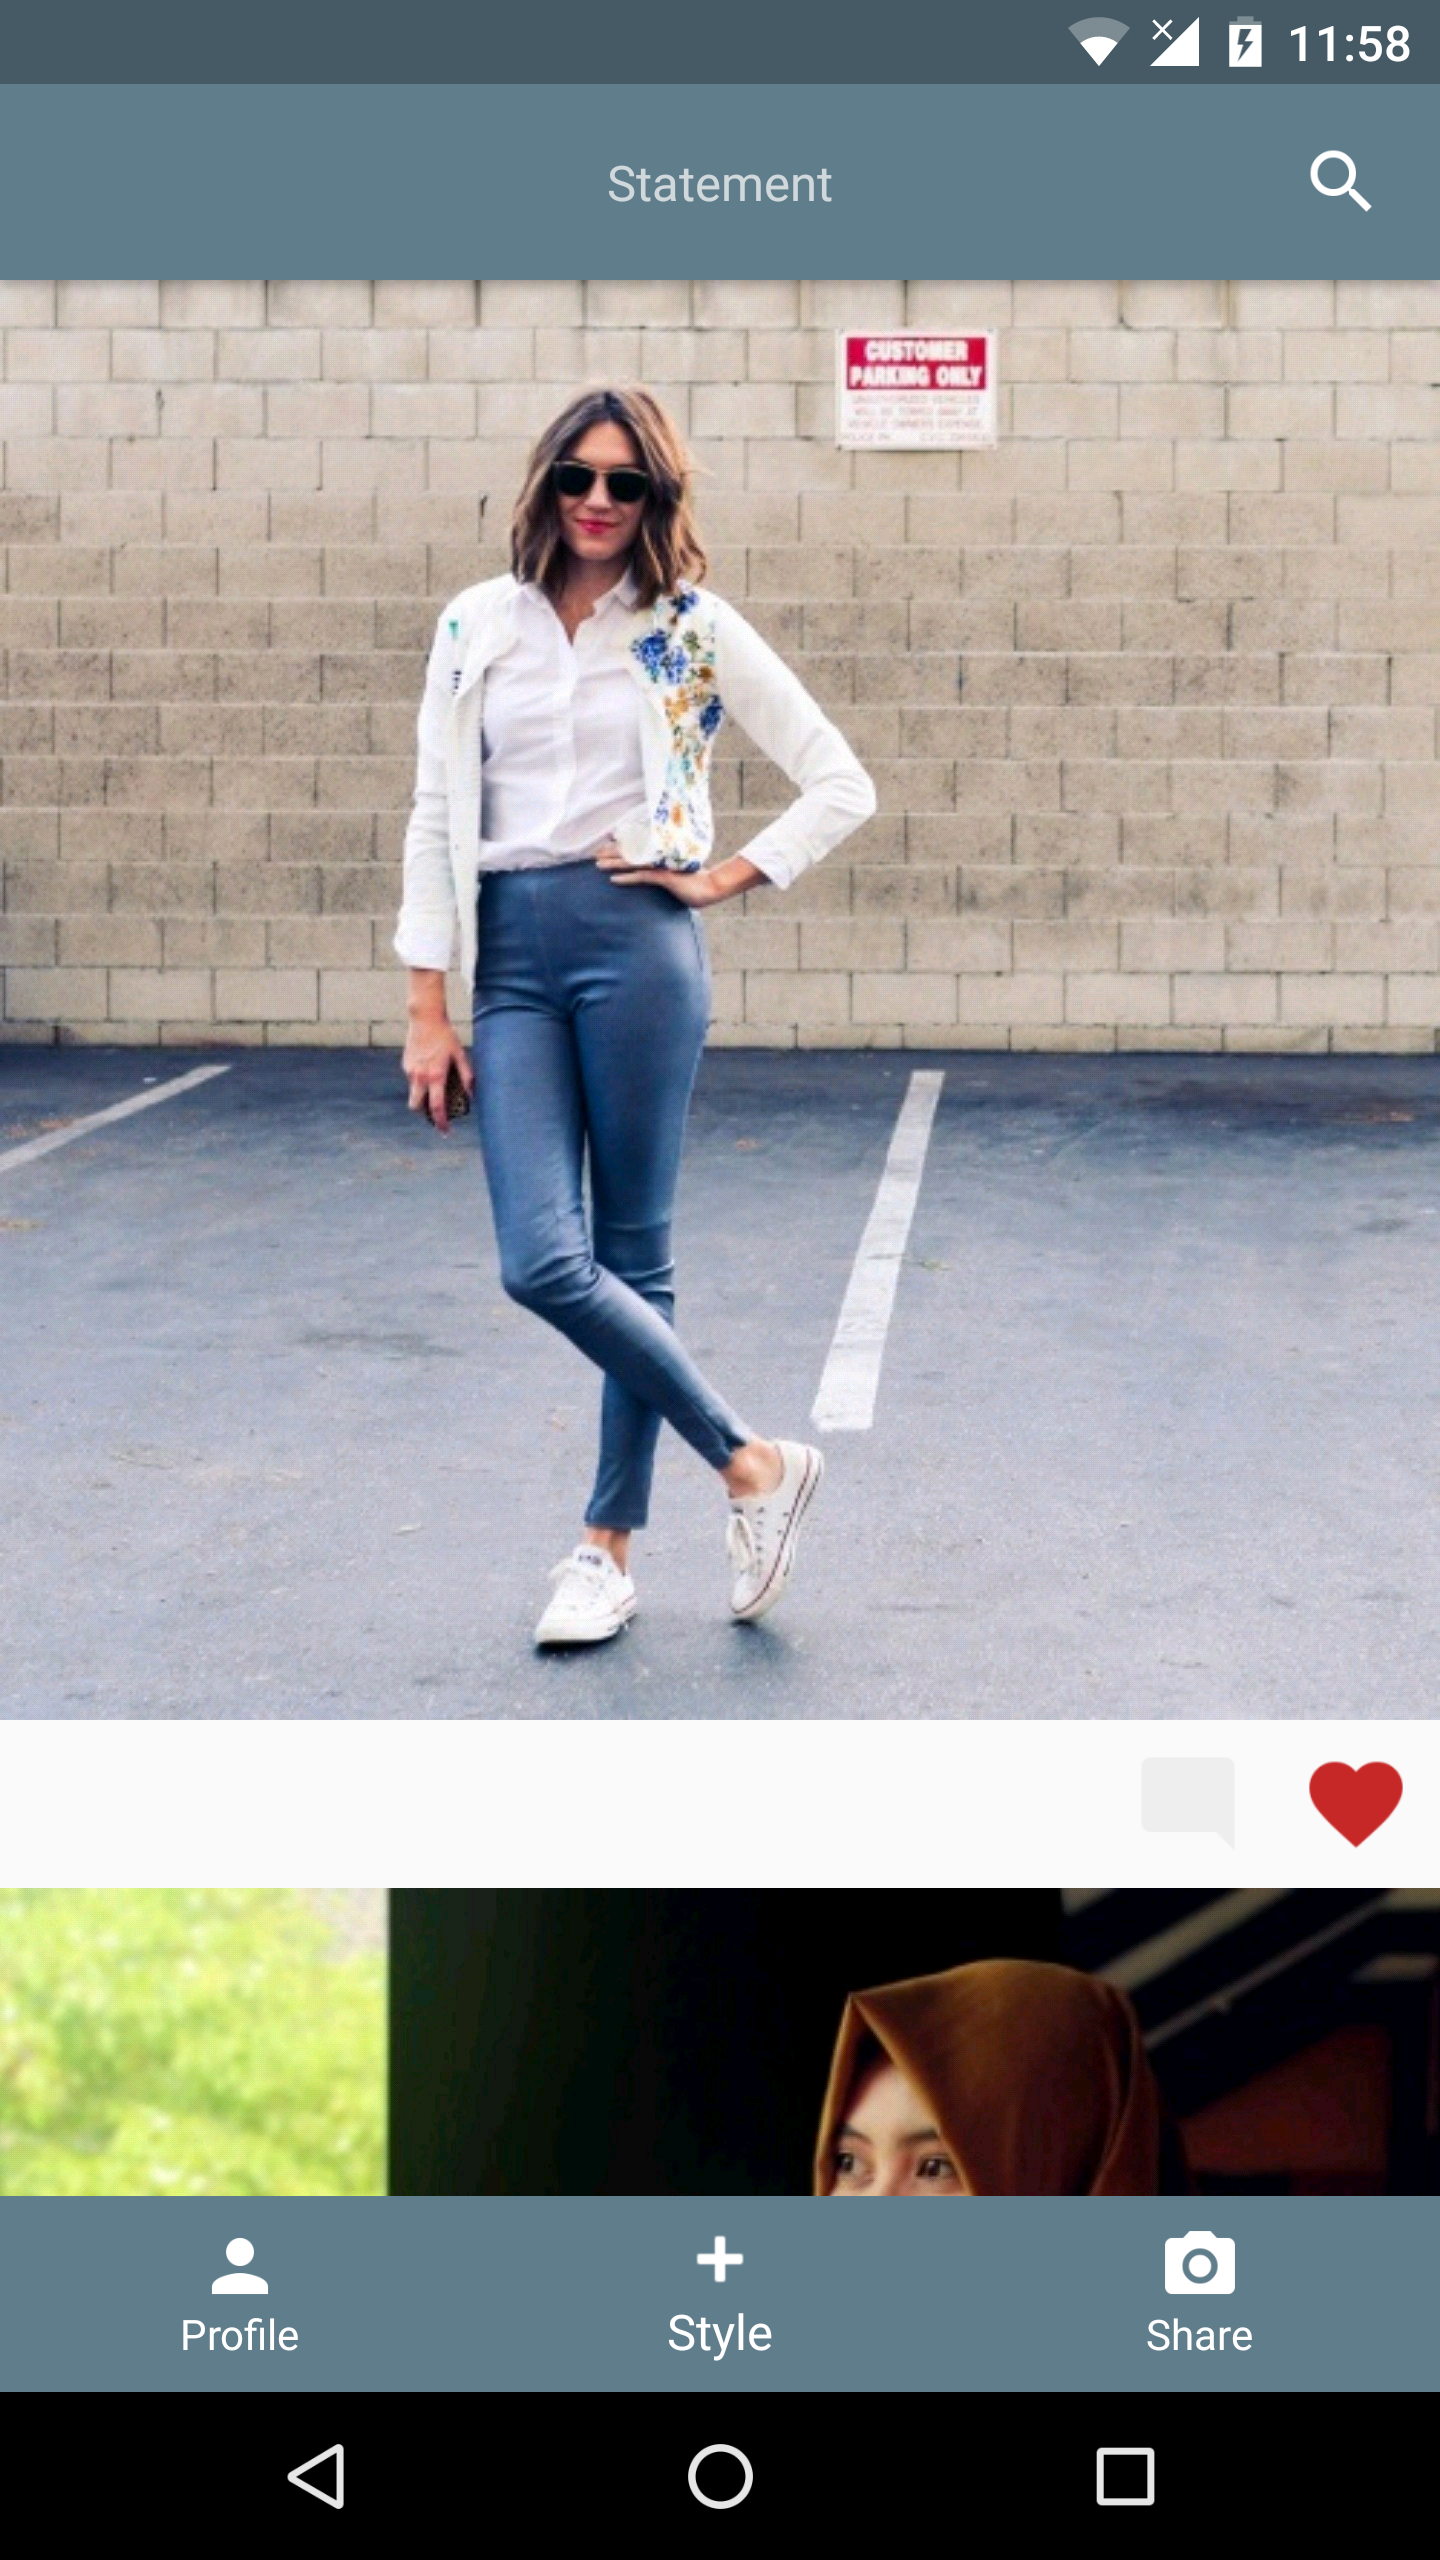
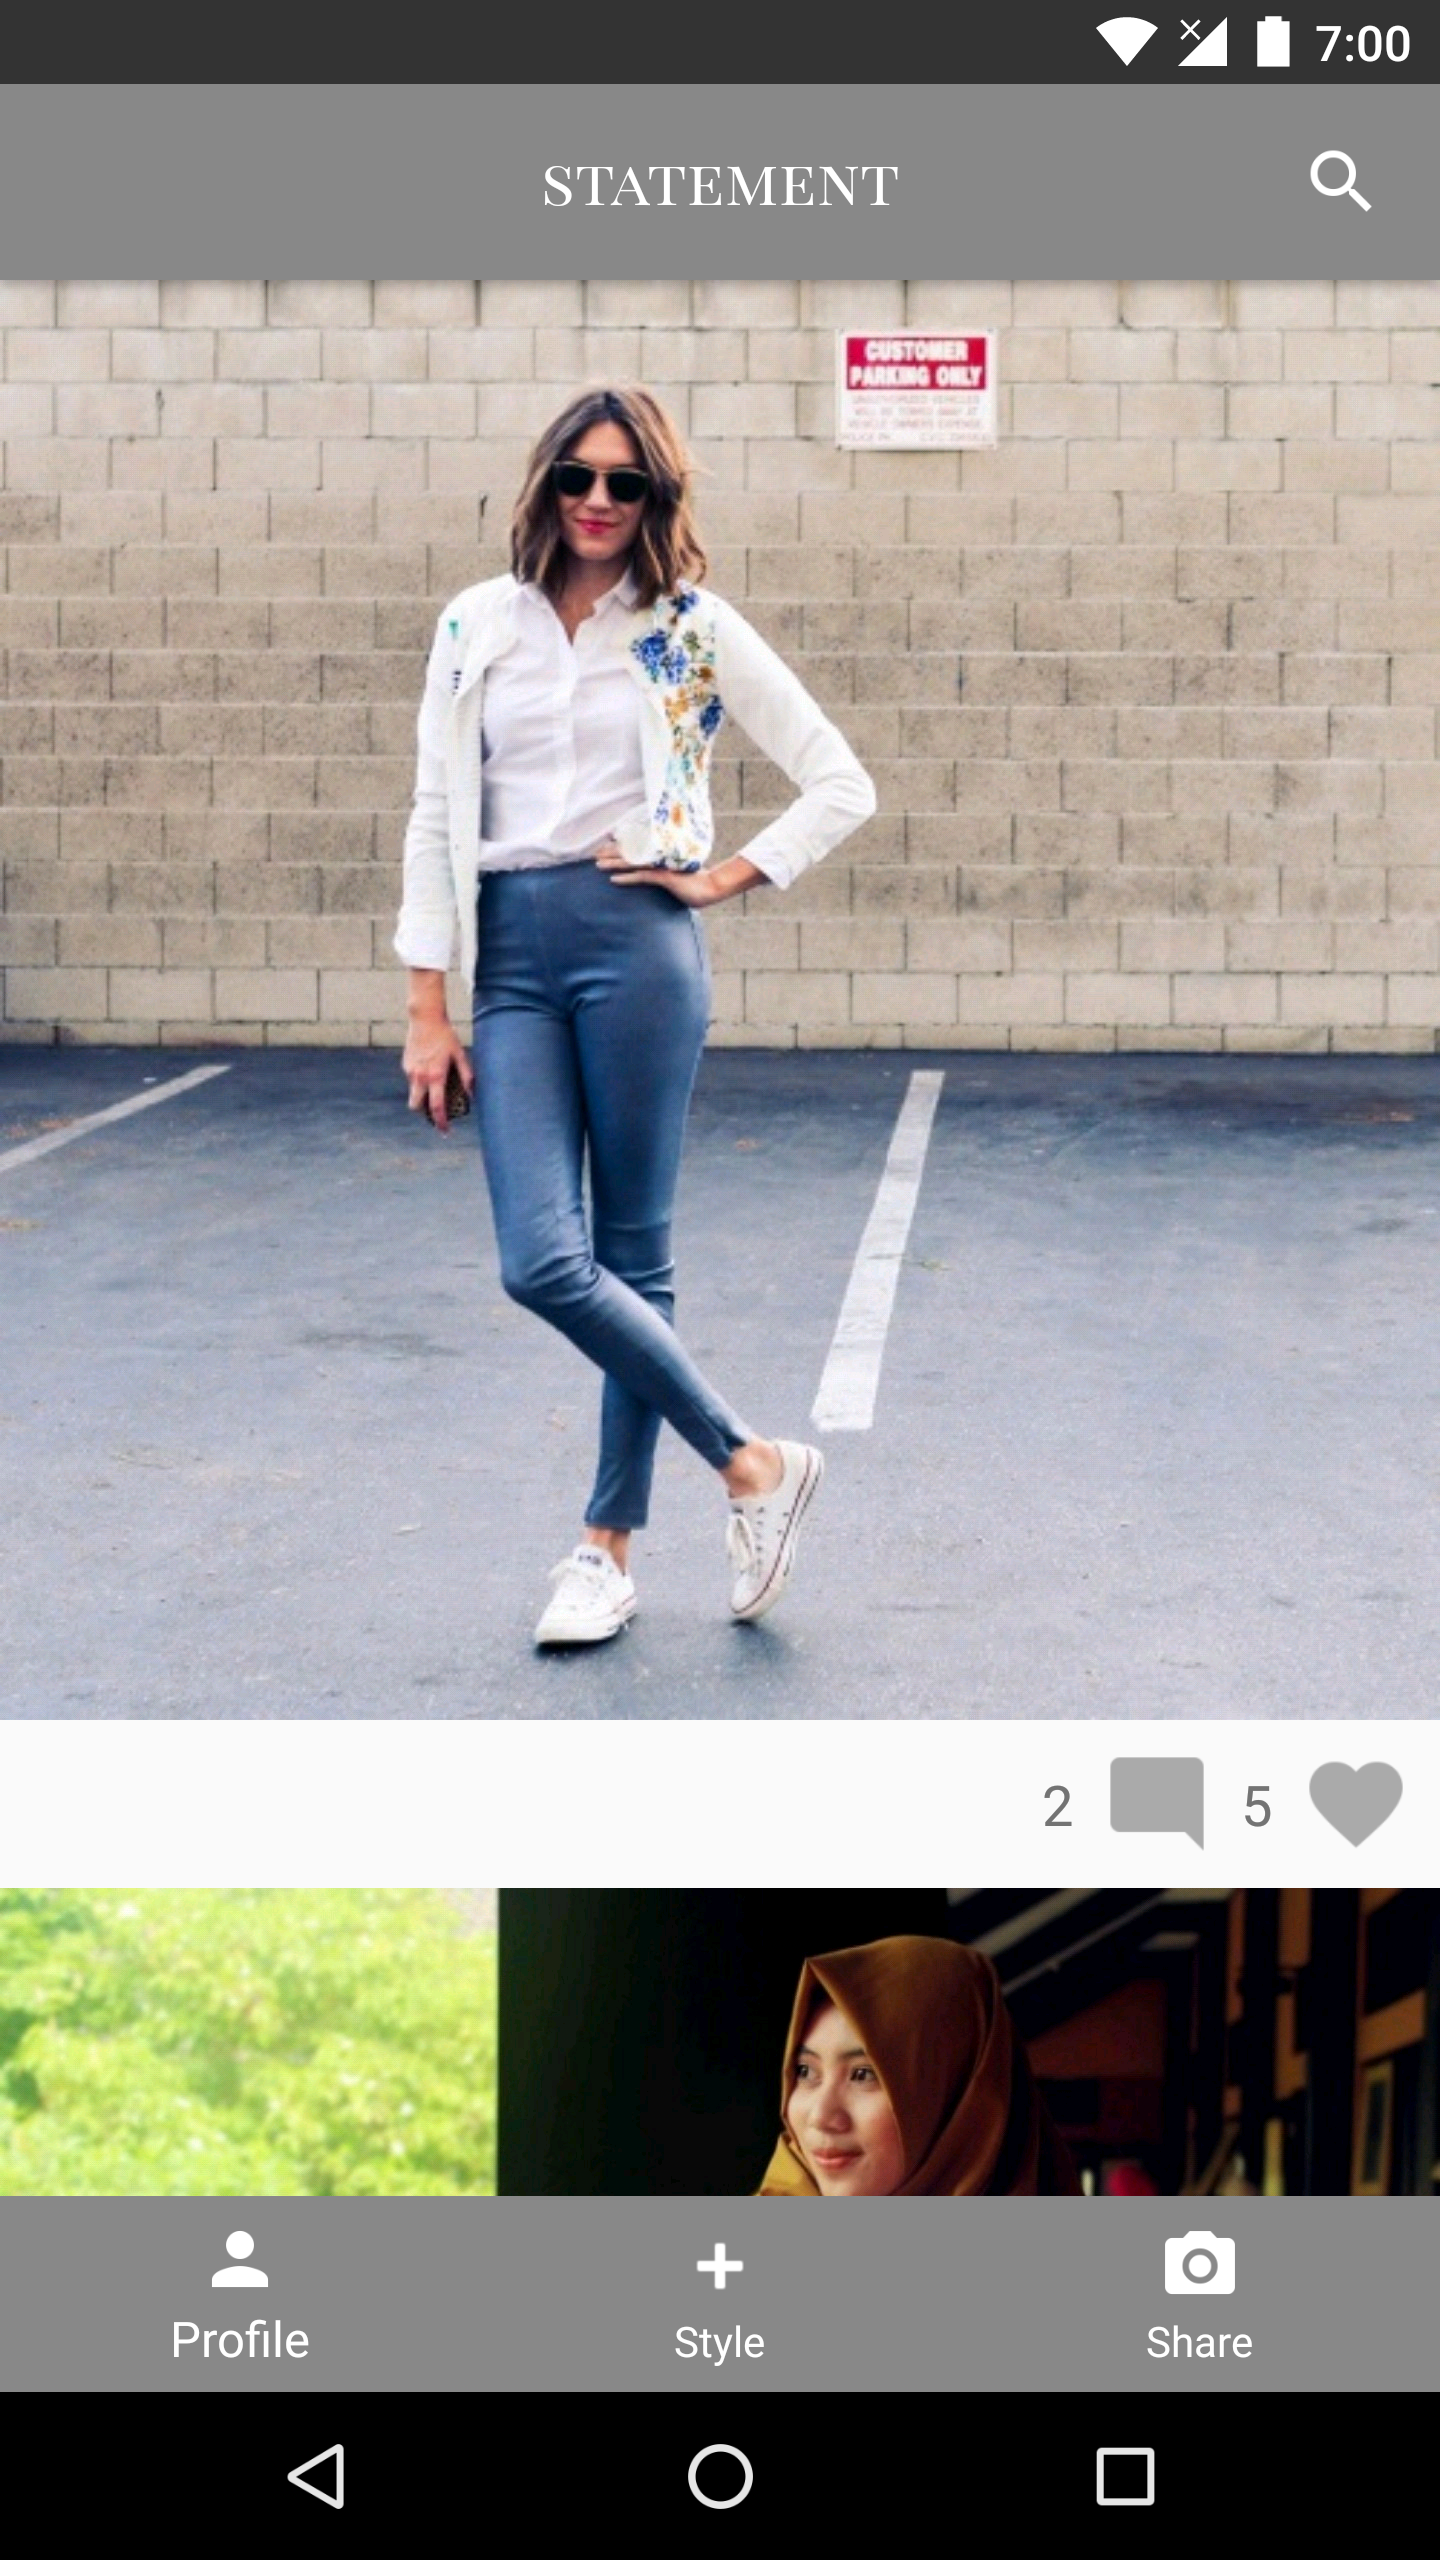
Change colours, use product images

Changed region(s): [[0.0, 0.6875, 1.0, 0.9375], [0.0, 0.0, 1.0, 0.125]]

diff --git a/app/src/main/java/com/qwissroll/statement/data/ProductDataManager.java b/app/src/main/java/com/qwissroll/statement/data/ProductDataManager.java
@@ -19,14 +19,14 @@ public class ProductDataManager {
         items = new HashMap<Integer, ArrayList<DetailItem>>();
 
         ArrayList<DetailItem> first = new ArrayList<DetailItem>();
-        first.add(new DetailItem(1, "Embroidered Jacket", "aaa", false));
-        first.add(new DetailItem(2, "White button-up shirt", "aaa", false));
-        first.add(new DetailItem(3, "Blue jeans", "aaa", false));
+        first.add(new DetailItem(12, "Embroidered Jacket", "aaa", false));
+        first.add(new DetailItem(15, "White button-up shirt", "aaa", false));
+        first.add(new DetailItem(23, "Blue jeans", "aaa", false));
         items.put(1, first);
 
         ArrayList<DetailItem> second = new ArrayList<DetailItem>();
-        second.add(new DetailItem(4, "Hijab", "aaa", false));
-        second.add(new DetailItem(5, "Lace top", "aaa", false));
+        second.add(new DetailItem(4, "Tudung", "aaa", false));
+        second.add(new DetailItem(18, "Lace dress", "aaa", false));
         items.put(2, second);
 
         ArrayList<DetailItem> third = new ArrayList<DetailItem>();

diff --git a/app/src/main/java/com/qwissroll/statement/DetailItemAdapter.java b/app/src/main/java/com/qwissroll/statement/DetailItemAdapter.java
@@ -80,7 +80,7 @@ public class DetailItemAdapter extends RecyclerView.Adapter<DetailItemAdapter.Vi
         Context context = holder.mImageView.getContext();
         DetailItem tag = mTags.get(position);
         // set image
-        int id = context.getResources().getIdentifier("p150x150", "drawable", context.getPackageName());
+        int id = context.getResources().getIdentifier("_item_" + tag.getItemId(), "drawable", context.getPackageName());
         Glide.with(context).load(id).into(holder.mImageView);
         // set name
         holder.mTextNameView.setText(tag.getItemName());
